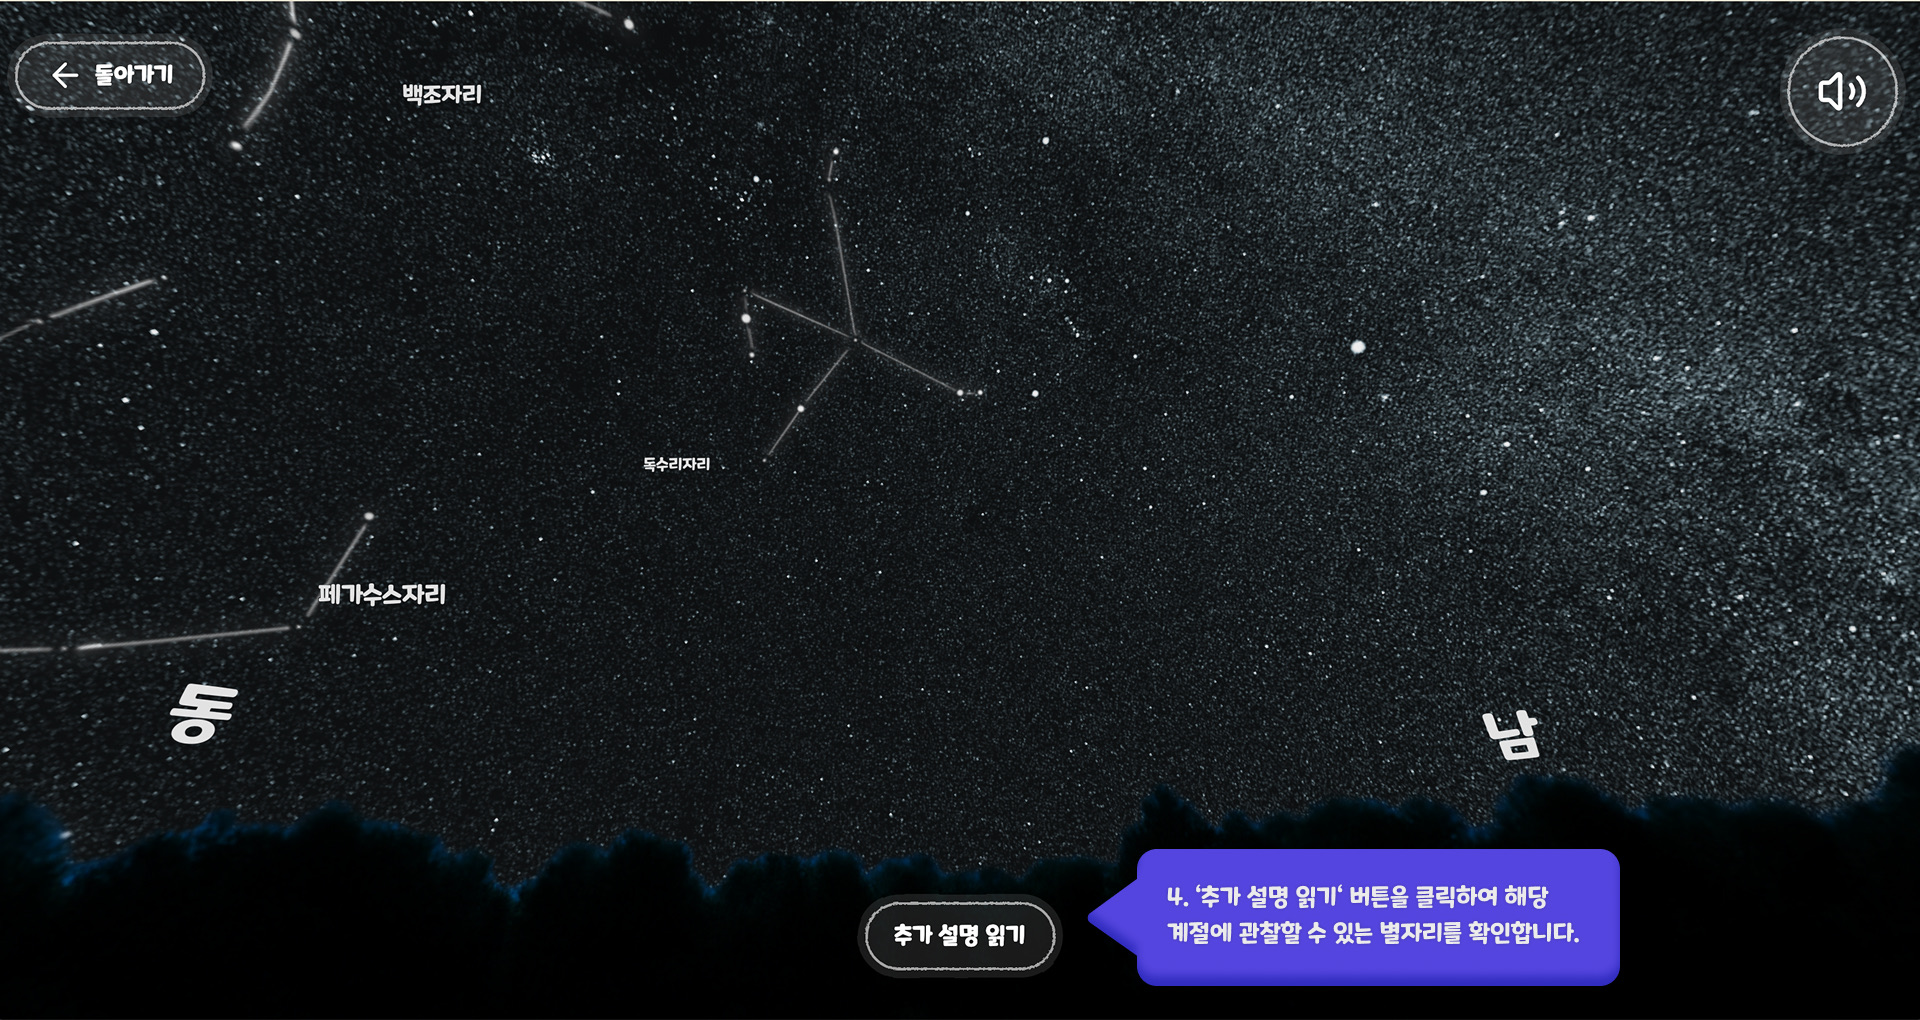
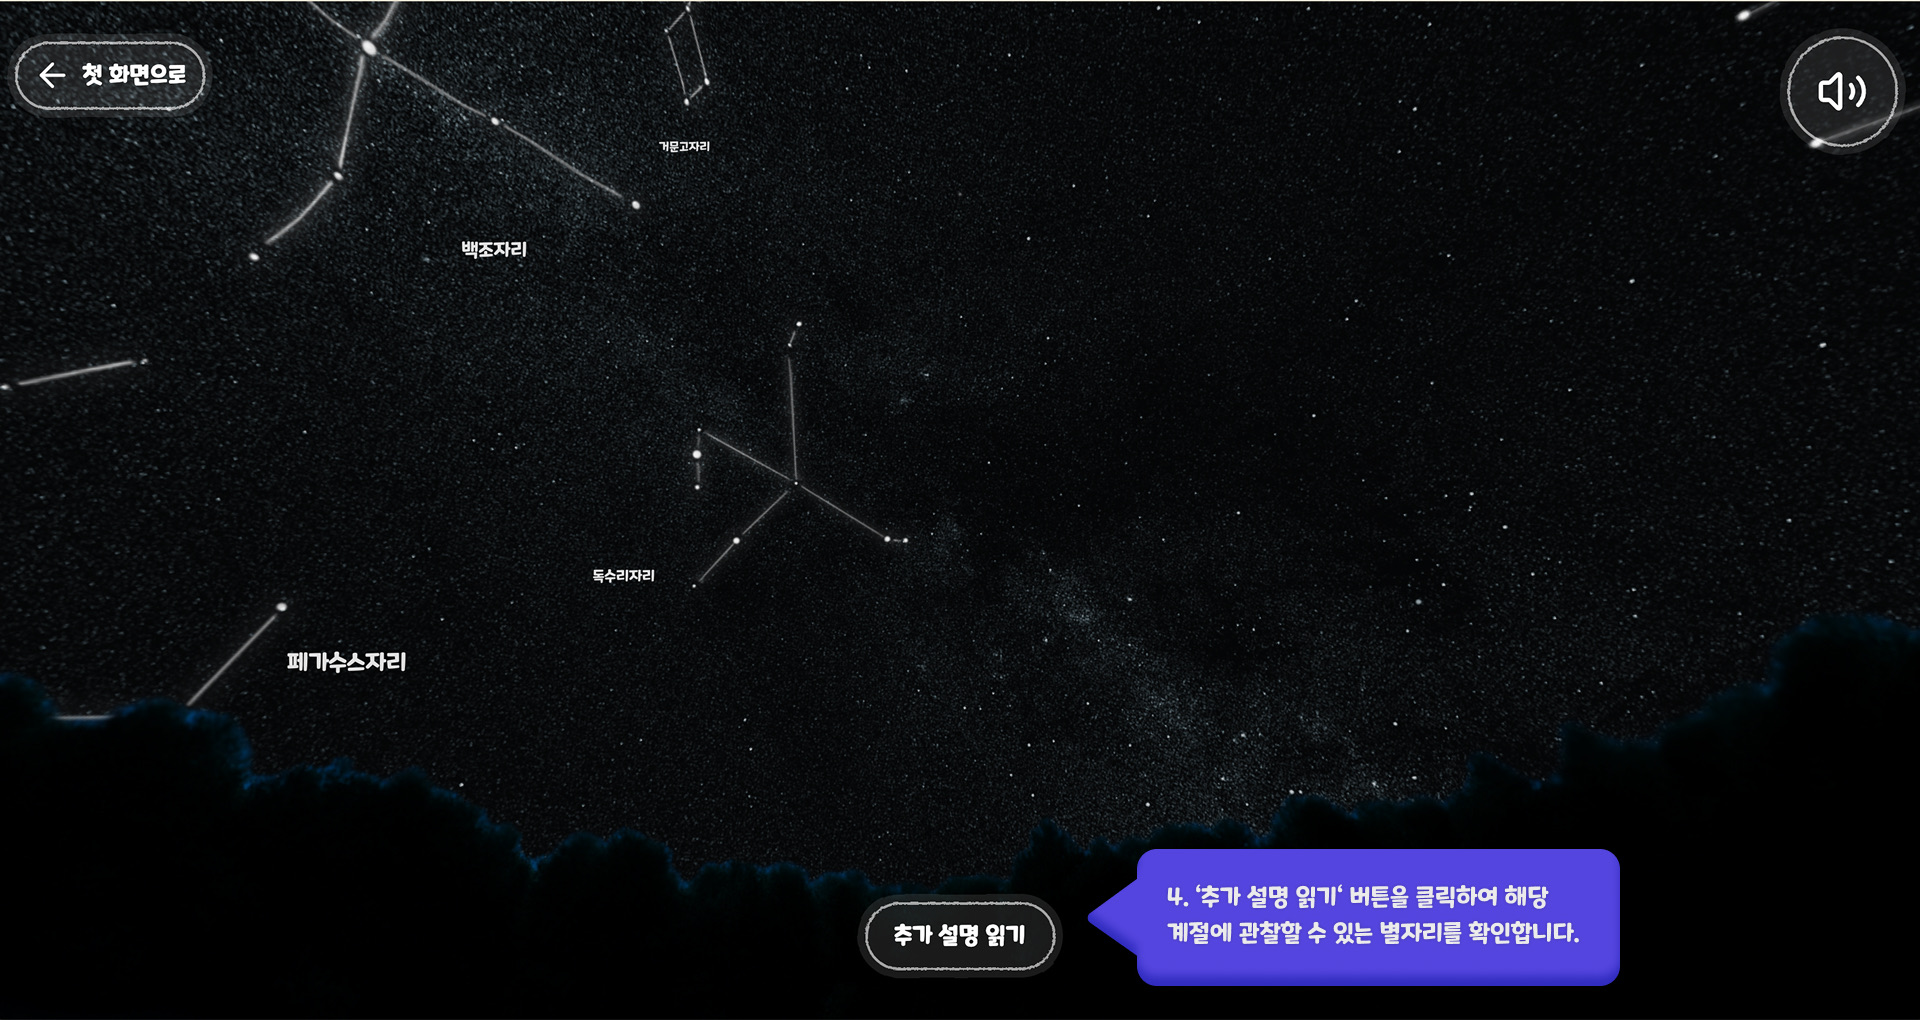
update button text in UI component for clarity; replace '돌아가기' with '첫 화면으로'

Changed region(s): [[0.0, 0.0, 1.0, 0.8814], [0.3125, 0.699, 0.3438, 0.7294]]

diff --git a/client/src/components/6-1-4/UI.tsx b/client/src/components/6-1-4/UI.tsx
@@ -133,7 +133,7 @@ export function UI({ isLockedToSurface, activeSeason, onReset }: UIProps) {
               onClick={handleReset}
               icon={'Arrowleft'}
               iconSize={30}
-              text='돌아가기'
+              text='첫 화면으로'
               color='#ffffff'
               textcolor='#ffffff'
               bg='rgba(255,255,255,0.10)'
